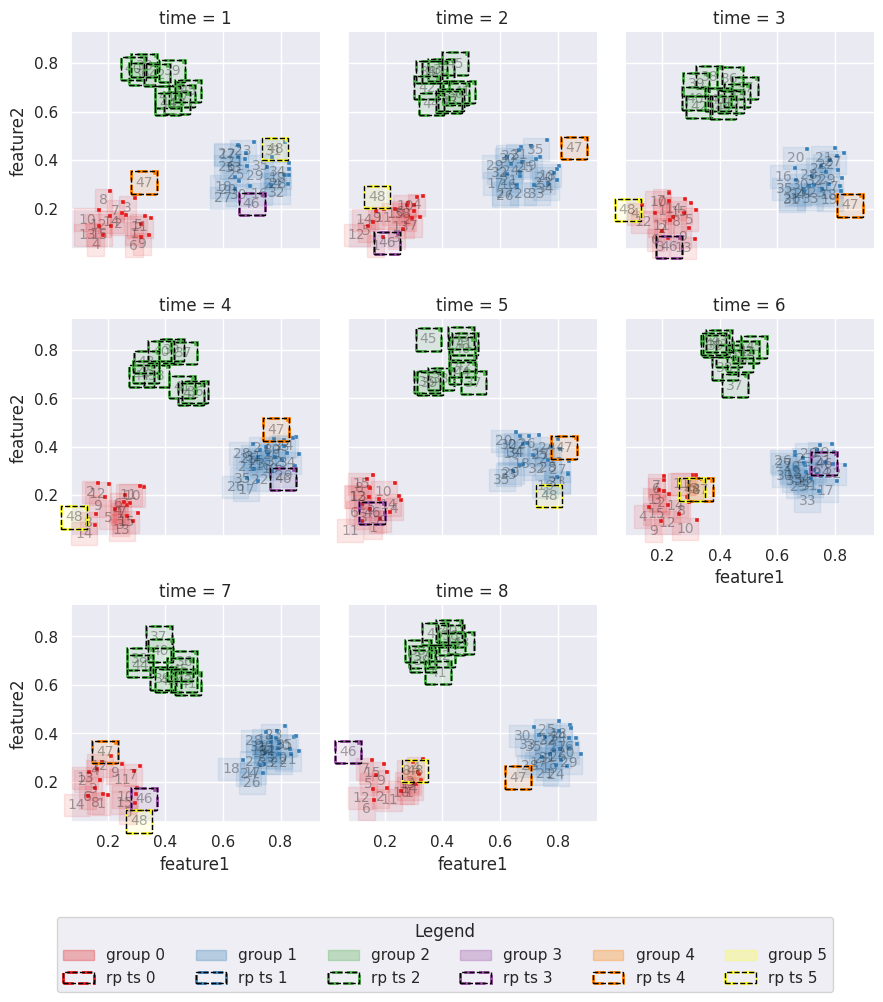
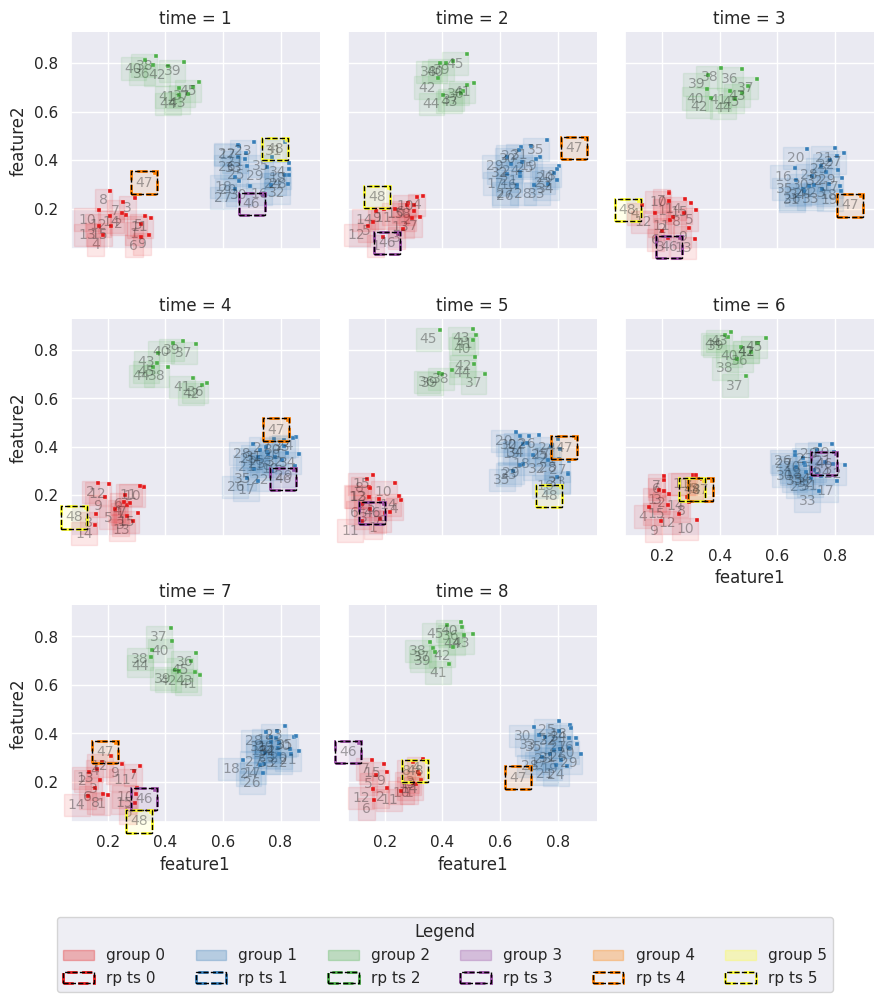
feat: outlier detection: interval settings

diff --git a/ots_eval/representatives_selection/outlier.py b/ots_eval/representatives_selection/outlier.py
@@ -26,10 +26,18 @@ class Outlier():
         )
         return df_cluster_path_group_extended
 
-    
+    def filter_by_interval(self, data_df, time_interval):      
+        if len(time_interval)>0:
+            filtered_df=data_df.loc[(data_df['time']>=time_interval[0]) & (data_df['time']<=time_interval[1])]
+        else:
+            filtered_df = data_df
+        return filtered_df
 
-    def get_outliers(self, data_df, sigma=1):
-        grouped_df=self.extend_df_by_cluster_path_group(data_df)     
+
+
+    def get_outliers(self, data_df, sigma=1, time_interval=()):
+        filtered_data_df=self.filter_by_interval(data_df,time_interval)        
+        grouped_df=self.extend_df_by_cluster_path_group(filtered_data_df)     
         stats=grouped_df.groupby(['object_id','group_id']).first().reset_index()[['group_id']].groupby('group_id').size().reset_index(name='count')     
         outlier_group_ids=stats.loc[stats['count']<=sigma]['group_id'].tolist()       
         result=grouped_df.loc[grouped_df['group_id'].isin(outlier_group_ids)].drop(['group_id'],axis=1)       

diff --git a/ots_eval/representatives_selection/exampleOutlier.py b/ots_eval/representatives_selection/exampleOutlier.py
@@ -41,5 +41,5 @@ if __name__ == "__main__":
     clustering.rename(columns={"cluster": "cluster_id"}, inplace=True)
     rp = get_representatives(clustering)
     outlier=Outlier()
-    outlier_df=outlier.get_outliers(clustering,sigma=10)
+    outlier_df=outlier.get_outliers(clustering,sigma=1)
     plot_result(clustering,outlier_df)
